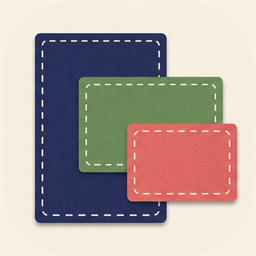
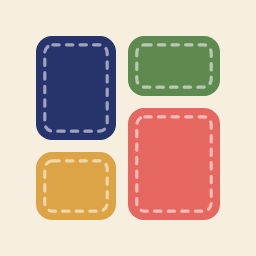
Retalhos: ícone novo (1e); etiquetas com o próprio formato na cor do tecido; retorno verde/vermelho ao desenhar
Claude-Session: https://claude.ai/code/session_01Qz1ytuQNeFNLmq2rNKZoKy

diff --git a/retalhos/index.html b/retalhos/index.html
@@ -36,7 +36,8 @@
     --bad: #d64545;
     --bad-soft: #f4d9d4;
     --fab-o: rgba(255, 255, 255, .26);
-    --f0: #e8835f; --f1: #6fa3d8; --f2: #efc14a; --f3: #86bb6d; --f4: #d97aa0; --f5: #9d8fd9;
+    --f0: #e5675f; --f1: #33427f; --f2: #dca444; --f3: #5f8a4f; --f4: #c9678a; --f5: #3d8c8c;
+    --ok: #4f8a3f;
     --accent: #d9694a;
     --on-accent: #fff;
     --shadow: 0 1px 2px rgba(60, 45, 20, .07), 0 6px 18px rgba(60, 45, 20, .08);
@@ -62,7 +63,8 @@
       --bad: #ff6b6b;
       --bad-soft: #4a2826;
       --fab-o: rgba(255, 255, 255, .13);
-      --f0: #b8583a; --f1: #3f72a6; --f2: #b08a26; --f3: #578a42; --f4: #a44c70; --f5: #6a5ca6;
+      --f0: #b8503f; --f1: #3a4a8c; --f2: #a8792a; --f3: #4b7040; --f4: #9c4d6a; --f5: #2f6e6e;
+      --ok: #6fb05d;
       --accent: #f09a74;
       --on-accent: #1d1712;
       --shadow: 0 1px 2px rgba(0, 0, 0, .35), 0 6px 18px rgba(0, 0, 0, .22);
@@ -88,7 +90,8 @@
       --bad: #ff6b6b;
       --bad-soft: #4a2826;
       --fab-o: rgba(255, 255, 255, .13);
-      --f0: #b8583a; --f1: #3f72a6; --f2: #b08a26; --f3: #578a42; --f4: #a44c70; --f5: #6a5ca6;
+      --f0: #b8503f; --f1: #3a4a8c; --f2: #a8792a; --f3: #4b7040; --f4: #9c4d6a; --f5: #2f6e6e;
+      --ok: #6fb05d;
       --accent: #f09a74;
       --on-accent: #1d1712;
       --shadow: 0 1px 2px rgba(0, 0, 0, .35), 0 6px 18px rgba(0, 0, 0, .22);
@@ -126,13 +129,22 @@
   .fo { fill: var(--fab-o); }
   .prev { fill: rgba(127, 110, 80, .08); stroke: var(--ink); stroke-width: 4; stroke-dasharray: 14 10; stroke-linecap: round; }
   .prev-badge { fill: var(--ink); }
-  .prev-t { fill: var(--bg); font: 800 30px "Noto Sans", -apple-system, sans-serif; text-anchor: middle; dominant-baseline: central; }
-  .tag { fill: var(--tag); stroke: var(--tag-line); stroke-width: 2; }
-  .tag.on { fill: var(--tag-on); stroke: none; }
-  .tag-g { fill: color-mix(in srgb, var(--tag-ink) 16%, transparent); stroke: var(--tag-ink); stroke-width: 3.6; stroke-linejoin: round; }
-  .tag-g.any { fill: none; }
-  .tag-g.any { stroke-dasharray: 5 4; }
-  .tag-n { fill: var(--tag-ink); font: 800 34px "Noto Sans", -apple-system, sans-serif; text-anchor: middle; dominant-baseline: central; }
+  .prev-t { fill: var(--bg); font: 800 28px "Noto Sans", -apple-system, sans-serif; text-anchor: middle; dominant-baseline: central; }
+  /* etiqueta = o próprio formato (largo, alto, quadrado) na cor do tecido, com o número dentro */
+  .tg-sh { stroke: rgba(0, 0, 0, .12); stroke-width: 1.5; }
+  .tg-st { fill: none; stroke: rgba(255, 255, 255, .75); stroke-width: 2.6; stroke-dasharray: 7 5; stroke-linecap: round; }
+  .tg-any { fill: color-mix(in srgb, var(--tag-ink) 7%, transparent); stroke: var(--tag-ink); stroke-width: 3.6; stroke-dasharray: 9 6; stroke-linecap: round; }
+  .tg-n { fill: #fff; font: 800 36px "Noto Sans", -apple-system, sans-serif; text-anchor: middle; dominant-baseline: central; }
+  .tg-n.dk { fill: #2b2823; }
+  .tg-any + .tg-n, .tg-n.any { fill: var(--tag-ink); }
+  /* etiqueta já dentro do retalho certo: vira um contorno branco sobre o tecido */
+  .tg.on .tg-sh, .tg.on .tg-any { fill: rgba(255, 255, 255, .16); stroke: rgba(255, 255, 255, .92); stroke-width: 3.2; stroke-dasharray: none; }
+  .tg.on .tg-st { display: none; }
+  .tg.on .tg-n { fill: #fff; }
+  .prev.ok { stroke: var(--ok); fill: color-mix(in srgb, var(--ok) 12%, transparent); }
+  .prev.bad { stroke: var(--bad); fill: color-mix(in srgb, var(--bad) 8%, transparent); }
+  .prev-badge.ok { fill: var(--ok); } .prev-badge.bad { fill: var(--bad); }
+  .prev-t.lt { fill: #fff; }
   .won .patch { animation: puff .45s cubic-bezier(.3,1.6,.5,1) both; transform-box: fill-box; transform-origin: center; }
   @keyframes puff { 0% { transform: scale(1); } 45% { transform: scale(1.045); } 100% { transform: scale(1); } }
   @media (prefers-reduced-motion: reduce) { .won .patch { animation: none !important; } }
@@ -217,7 +229,7 @@
 
 <header class="gh">
   <a class="gh-back" href="../" aria-label="Voltar aos Jogos do Dia" title="Jogos do Dia"><svg viewBox="0 0 24 24" width="22" height="22" fill="none" stroke="currentColor" stroke-width="2.6" stroke-linecap="round" stroke-linejoin="round" aria-hidden="true"><path d="M15 5l-7 7 7 7"/></svg></a>
-  <a class="gh-brand" href="./" aria-label="Retalhos — recarregar"><img src="icon.png?v=2" alt=""><b>RETALHOS</b></a>
+  <a class="gh-brand" href="./" aria-label="Retalhos — recarregar"><img src="icon.png?v=3" alt=""><b>RETALHOS</b></a>
   <div class="gh-pill" id="timer" aria-label="Tempo">0:00</div>
   <button class="gh-btn" id="helpBtn" aria-label="Como jogar" title="Como jogar"><svg viewBox="0 0 24 24" aria-hidden="true" fill="none" stroke="currentColor" stroke-width="2.4" stroke-linecap="round" stroke-linejoin="round"><circle cx="12" cy="12" r="9"/><path d="M9.3 9.3a2.8 2.8 0 0 1 5.4 1c0 1.9-2.7 2.5-2.7 4"/><path d="M12 17.6h.01"/></svg></button>
 </header>
@@ -239,7 +251,7 @@
   <div class="prog" aria-live="polite">
     <span class="bar"><i id="progBar"></i></span><span class="n" id="progN"><b>0</b>/0</span>
     <button class="done-bar" id="doneBar" tabindex="-1" aria-label="Jogo completo: ver resultado">
-      <img class="quilt" src="icon.png?v=2" alt="">
+      <img class="quilt" src="icon.png?v=3" alt="">
       <span class="txt"><b id="doneTitle">Colcha completa</b><span id="doneSub"></span></span>
       <svg class="chev" viewBox="0 0 24 24" aria-hidden="true"><path d="M9 5l7 7-7 7"/></svg>
     </button>
@@ -257,18 +269,18 @@
     <p>Costure uma colcha: divida o tabuleiro em <b>retalhos retangulares</b>, sem sobrar casa e sem sobrepor.</p>
     <ul>
       <li>Cada retalho tem <b>exatamente uma etiqueta</b>.</li>
-      <li>O <b>número</b> da etiqueta é quantas casas o retalho tem.</li>
-      <li>O desenho é o <b>formato</b>: <svg class="g" viewBox="0 0 26 18"><rect x="7" y="3" width="12" height="12" rx="2" fill="none" stroke="currentColor" stroke-width="2"/></svg> quadrado,
-        <svg class="g" viewBox="0 0 26 18"><rect x="4" y="4.5" width="18" height="9" rx="2" fill="none" stroke="currentColor" stroke-width="2"/></svg> mais largo que alto,
-        <svg class="g" viewBox="0 0 26 18"><rect x="8.5" y="1" width="9" height="16" rx="2" fill="none" stroke="currentColor" stroke-width="2"/></svg> mais alto que largo e
-        <svg class="g" viewBox="0 0 26 18"><rect x="6" y="2" width="14" height="14" rx="2" fill="none" stroke="currentColor" stroke-width="2" stroke-dasharray="3 2.4"/></svg> qualquer formato.</li>
+      <li>O <b>número</b> dentro da etiqueta é quantas casas o retalho tem.</li>
+      <li>O <b>formato da etiqueta</b> é o formato do retalho: <svg class="g" viewBox="0 0 26 18"><rect x="7" y="2" width="14" height="14" rx="3" fill="#5f8a4f"/></svg> quadrado,
+        <svg class="g" viewBox="0 0 26 18"><rect x="2" y="4" width="22" height="11" rx="3" fill="#e5675f"/></svg> mais largo que alto,
+        <svg class="g" viewBox="0 0 26 18"><rect x="8" y="0.5" width="11" height="17" rx="3" fill="#33427f"/></svg> mais alto que largo e
+        <svg class="g" viewBox="0 0 26 18"><rect x="6" y="2" width="14" height="14" rx="3" fill="none" stroke="currentColor" stroke-width="1.8" stroke-dasharray="3 2.4"/></svg> tracejado: qualquer formato.</li>
       <li>Algumas etiquetas mostram só o formato, ou só o número.</li>
     </ul>
     <div class="demo">
       <figure><svg id="demoA" viewBox="0 0 330 330"></svg>etiquetas</figure>
       <figure><svg id="demoB" viewBox="0 0 330 330"></svg>colcha pronta</figure>
     </div>
-    <p>Arraste o dedo de um canto ao outro para desenhar um retalho. Toque num retalho para desfazê-lo. Retalhos que não batem com a etiqueta aparecem com listras vermelhas.</p>
+    <p>Arraste o dedo de um canto ao outro para desenhar um retalho. Toque num retalho para desfazê-lo. Enquanto você arrasta, o contorno fica verde quando o retalho bate com a etiqueta e vermelho quando não bate (com o que falta). Retalhos errados ficam com listras vermelhas.</p>
     <p>Todo desafio tem uma única solução e pode ser resolvido só com lógica. A dificuldade sobe ao longo da semana: <b>segunda é nível 1</b> (6×6) e <b>domingo é nível 7</b> (9×9).</p>
     <p>No <b>Jogo livre</b> você joga desafios extras, de níveis variados, que não contam nas estatísticas.</p>
     <button class="btn-main" data-close>Jogar</button>
@@ -289,7 +301,7 @@
 <div class="overlay" id="endOverlay">
   <div class="modal fim">
     <div class="fim-top"><button class="fim-close" data-close aria-label="Fechar"><svg viewBox="0 0 24 24" aria-hidden="true"><path d="M6 6l12 12M18 6L6 18"/></svg></button></div>
-    <div class="fim-art"><img src="icon.png?v=2" alt="" style="height:96px;border-radius:24px;box-shadow:0 4px 14px rgba(60,45,20,.15)"></div>
+    <div class="fim-art"><img src="icon.png?v=3" alt="" style="height:96px;border-radius:24px;box-shadow:0 4px 14px rgba(60,45,20,.15)"></div>
     <h2 class="fim-title" id="endTitle">Colcha completa!</h2>
     <div class="fim-result"><div class="fim-time" id="endTime">0:00</div></div>
     <p class="fim-sub" id="endSub"></p>
@@ -448,21 +460,16 @@
       <rect ${fill} x="${x}" y="${y}" width="${w}" height="${h}" rx="18"/>
       <rect class="p-st${stc}" x="${x + 10}" y="${y + 10}" width="${w - 20}" height="${h - 20}" rx="10"/></g>`;
   }
-  function glyph(f, x, y, big) {
-    const k = big ? 1.25 : 1, R = (w, h) => `<rect class="tag-g${f === "*" ? " any" : ""}" x="${x - w * k / 2}" y="${y - h * k / 2}" width="${w * k}" height="${h * k}" rx="${3.5 * k}"/>`;
-    if (f === "q") return R(18, 18);
-    if (f === "l") return R(26, 15);
-    if (f === "a") return R(15, 26);
-    return R(19, 19);
-  }
-  // etiqueta: formato em cima, número embaixo (sem número, só o formato, maior)
+  // tamanho do desenho da etiqueta, em unidades da casa (1 casa = 100)
+  const TAG = { q: [64, 64], l: [86, 50], a: [50, 86], "*": [66, 66] };
   function tagSVG(c, on) {
     const x = PAD + (c.i % N) * U + U / 2, y = PAD + ((c.i / N) | 0) * U + U / 2;
-    const tw = 62, th = c.n ? 78 : 56;
-    let s = `<rect class="tag${on ? " on" : ""}" x="${x - tw / 2}" y="${y - th / 2}" width="${tw}" height="${th}" rx="13"/>`;
-    if (c.n) s += glyph(c.f, x, y - 19) + `<text class="tag-n" x="${x}" y="${y + 15}">${c.n}</text>`;
-    else s += glyph(c.f, x, y, true);
-    return s;
+    const [w, h] = TAG[c.f], x0 = x - w / 2, y0 = y - h / 2;
+    let s = `<g class="tg${on ? " on" : ""}">`;
+    if (c.f === "*") s += `<rect class="tg-any" x="${x0}" y="${y0}" width="${w}" height="${h}" rx="13"/>`;
+    else s += `<rect class="tg-sh f${c.c}" x="${x0}" y="${y0}" width="${w}" height="${h}" rx="13"/><rect class="tg-st" x="${x0 + 6}" y="${y0 + 6}" width="${w - 12}" height="${h - 12}" rx="8"/>`;
+    if (c.n) s += `<text class="tg-n${c.f === "*" ? " any" : c.c === 2 ? " dk" : ""}" x="${x}" y="${y + 1}">${c.n}</text>`;
+    return s + "</g>";
   }
   function render() {
     const sts = patches.map(statusOf);
@@ -507,13 +514,25 @@
     const r1 = (a / N) | 0, c1 = a % N, r2 = (b / N) | 0, c2 = b % N;
     return { r0: Math.min(r1, r2), c0: Math.min(c1, c2), h: Math.abs(r1 - r2) + 1, w: Math.abs(c1 - c2) + 1 };
   };
+  const SHAPE_NAME = { q: "quadrado", l: "largo", a: "alto" };
+  // enquanto arrasta: o contorno e o selo dizem se o retalho bate com a etiqueta
   function preview(p) {
     if (!p) { gV.innerHTML = ""; return; }
     const x = PAD + p.c0 * U + 4, y = PAD + p.r0 * U + 4, w = p.w * U - 8, h = p.h * U - 8;
-    const label = `${p.w}×${p.h}`, bw = 22 * label.length + 20;
-    gV.innerHTML = `<rect class="prev" x="${x}" y="${y}" width="${w}" height="${h}" rx="18"/>
-      <rect class="prev-badge" x="${x + w - bw - 8}" y="${y + h - 52}" width="${bw}" height="44" rx="22"/>
-      <text class="prev-t" x="${x + w - bw / 2 - 8}" y="${y + h - 29}">${label}</text>`;
+    const inside = clues.filter(c => contains(p, c.i)), area = p.h * p.w;
+    let label = `${p.w}×${p.h}`, cls = "";
+    if (inside.length > 1) { cls = "bad"; label += ` · ${inside.length} etiquetas`; }
+    else if (inside.length === 1) {
+      const c = inside[0];
+      if (c.n && c.n !== area) { cls = "bad"; label += ` · ${area} de ${c.n}`; }
+      else if (c.f !== "*" && c.f !== shapeOf(p.h, p.w)) { cls = "bad"; label += ` · não é ${SHAPE_NAME[c.f]}`; }
+      else { cls = "ok"; label += ` · ${area} ✓`; }
+    }
+    const bw = 17 * label.length + 26;
+    const bx = Math.max(PAD, Math.min(x + w - bw - 8, W - PAD - bw)), by = y + h - 52;
+    gV.innerHTML = `<rect class="prev ${cls}" x="${x}" y="${y}" width="${w}" height="${h}" rx="18"/>
+      <rect class="prev-badge ${cls}" x="${bx}" y="${by}" width="${bw}" height="44" rx="22"/>
+      <text class="prev-t${cls ? " lt" : ""}" x="${bx + bw / 2}" y="${by + 23}">${label}</text>`;
   }
   let drag = null;
   $("board").addEventListener("pointerdown", e => {

diff --git a/comum/catalogo.js b/comum/catalogo.js
@@ -27,7 +27,7 @@ const BASE_GAMES = [
   { id: "linkedin",   name: "LinkedIn",   emoji: "💼", desc: "Queens, Tango, Zip, Pinpoint…", url: "https://www.linkedin.com/games/", app: true },
   { id: "eclipse",    name: "Eclipse",    emoji: "🌗", desc: "Um sol e uma lua em cada linha", url: "eclipse/", icon: "eclipse/icon.png", iconFull: true },
   { id: "novelo",     name: "Novelo",     emoji: "🧶", desc: "Um fio por todas as casas",     url: "novelo/", icon: "novelo/icon.png?v=2", iconFull: true },
-  { id: "retalhos",   name: "Retalhos",   emoji: "🧵", desc: "Uma colcha de retângulos",      url: "retalhos/", icon: "retalhos/icon.png?v=2", iconFull: true },
+  { id: "retalhos",   name: "Retalhos",   emoji: "🧵", desc: "Uma colcha de retângulos",      url: "retalhos/", icon: "retalhos/icon.png?v=3", iconFull: true },
 ];
 
 /* ============================================================ */

diff --git a/sw.js b/sw.js
@@ -1,6 +1,6 @@
 // Service worker do Jogos do Dia.
 // Deixa o painel instalável e funcionando offline (sempre tenta a versão mais nova primeiro).
-const CACHE = "jogos-do-dia-v61";
+const CACHE = "jogos-do-dia-v62";
 const FILES = ["./", "./index.html", "./manifest.json", "./icon-192.png", "./icon-512.png", "./apple-touch-icon.png"];
 
 self.addEventListener("install", e => {

diff --git a/README.md b/README.md
@@ -150,9 +150,9 @@ Desenha-se arrastando o dedo a partir do 1 (ou da ponta do fio). O fio segue o d
 O Patches (LinkedIn) em português, como uma **colcha de retalhos**.
 
 - Divida o tabuleiro em **retângulos**, sem sobrar casa e sem sobrepor.
-- Cada retalho tem **exatamente uma etiqueta**. A etiqueta mostra o **formato** (quadrado, mais largo que alto, mais alto que largo, ou qualquer — tracejado) e/ou o **número de casas**.
+- Cada retalho tem **exatamente uma etiqueta**. A etiqueta tem o próprio **formato** do retalho — larga, alta ou quadrada, na cor do tecido — com o **número de casas** dentro; tracejada quer dizer qualquer formato. Algumas etiquetas não têm número.
 
-Arraste de um canto ao outro para desenhar um retalho (aparece o tamanho, ex.: 3×2); desenhar por cima substitui os retalhos que ficam embaixo; tocar num retalho o desfaz, e tocar numa casa livre cria um 1×1. Retalhos certos ganham o tecido da cor da etiqueta (poá, listras ou xadrez, com pesponto); retalho sem etiqueta fica neutro e retalho que não bate fica com listras vermelhas. A barra de baixo conta os retalhos certos.
+Arraste de um canto ao outro para desenhar um retalho: o contorno e o selo mostram o tamanho e se ele bate com a etiqueta de dentro (verde "3×2 · 6 ✓"; vermelho "4 de 6", "não é alto" ou "2 etiquetas"); desenhar por cima substitui os retalhos que ficam embaixo; tocar num retalho o desfaz, e tocar numa casa livre cria um 1×1. Retalhos certos ganham o tecido da cor da etiqueta (poá, listras ou xadrez, com pesponto); retalho sem etiqueta fica neutro e retalho que não bate fica com listras vermelhas. A barra de baixo conta os retalhos certos.
 
 **Desafios.** Um por dia a partir de 28/09/2026 (#1), em `retalhos/desafios.json`, conferidos pelo `retalhos/gerador.mjs` (com `retalhos/motor.mjs`): **solução única** e **só dedução**. O gerador sorteia uma colcha equilibrada (formatos variados, poucos 1×1), põe uma etiqueta em cada retalho e esconde informações (número ou formato) enquanto a solução continuar única e dentro do nível do dia. As cores são escolhidas para retalhos vizinhos nunca ficarem iguais.
 
